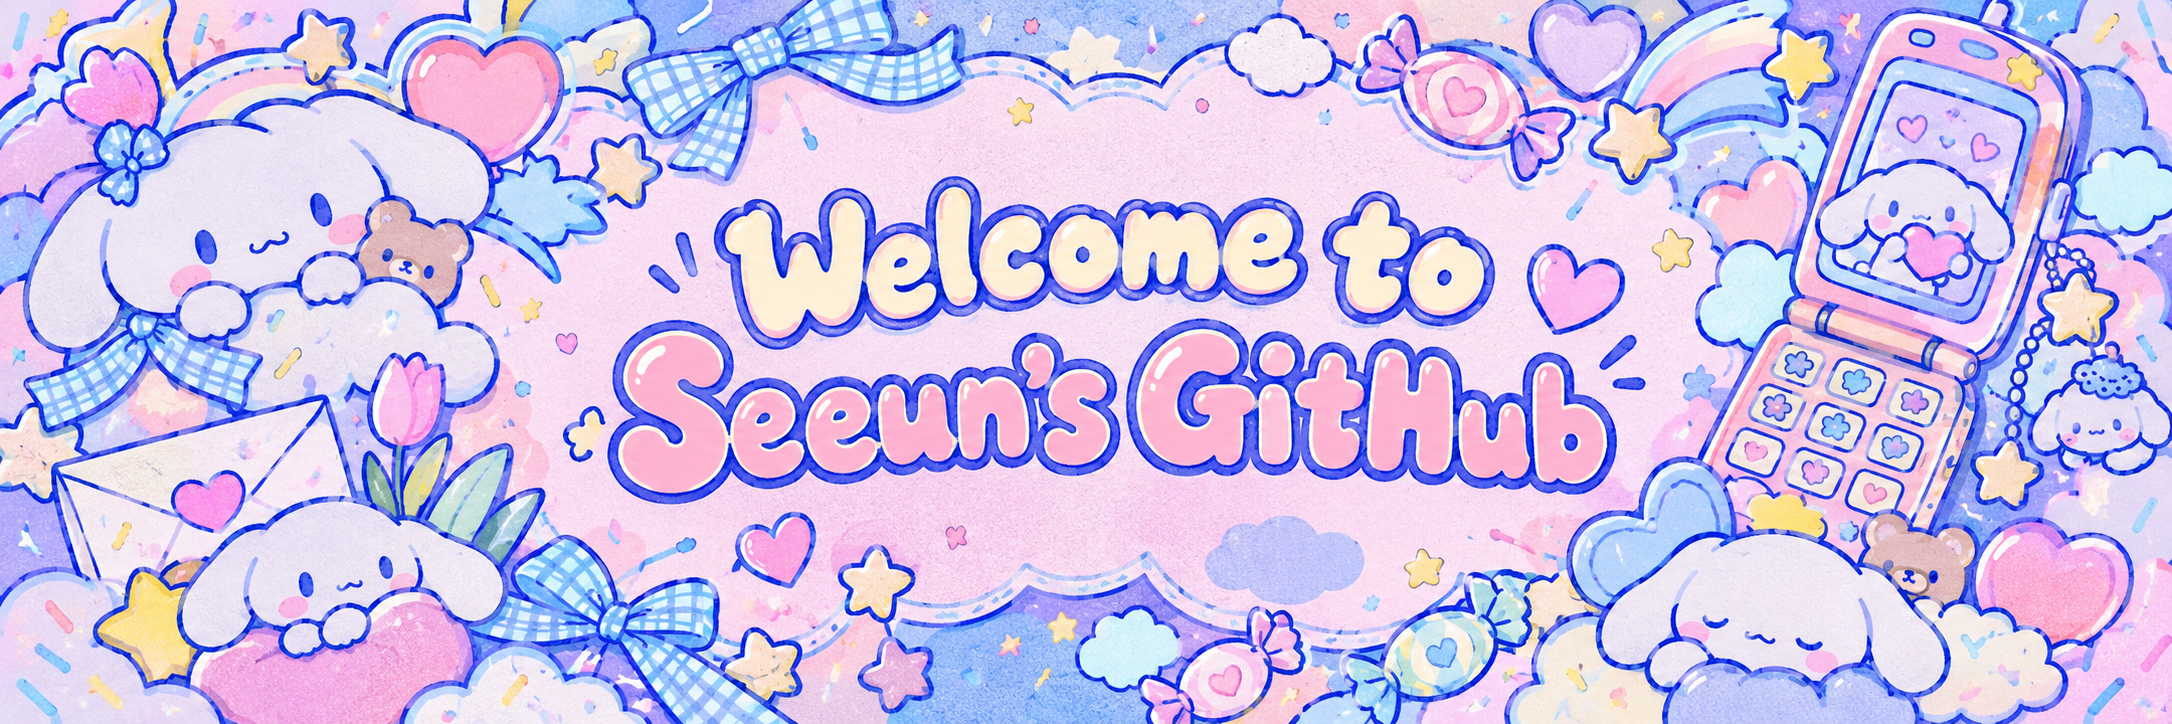
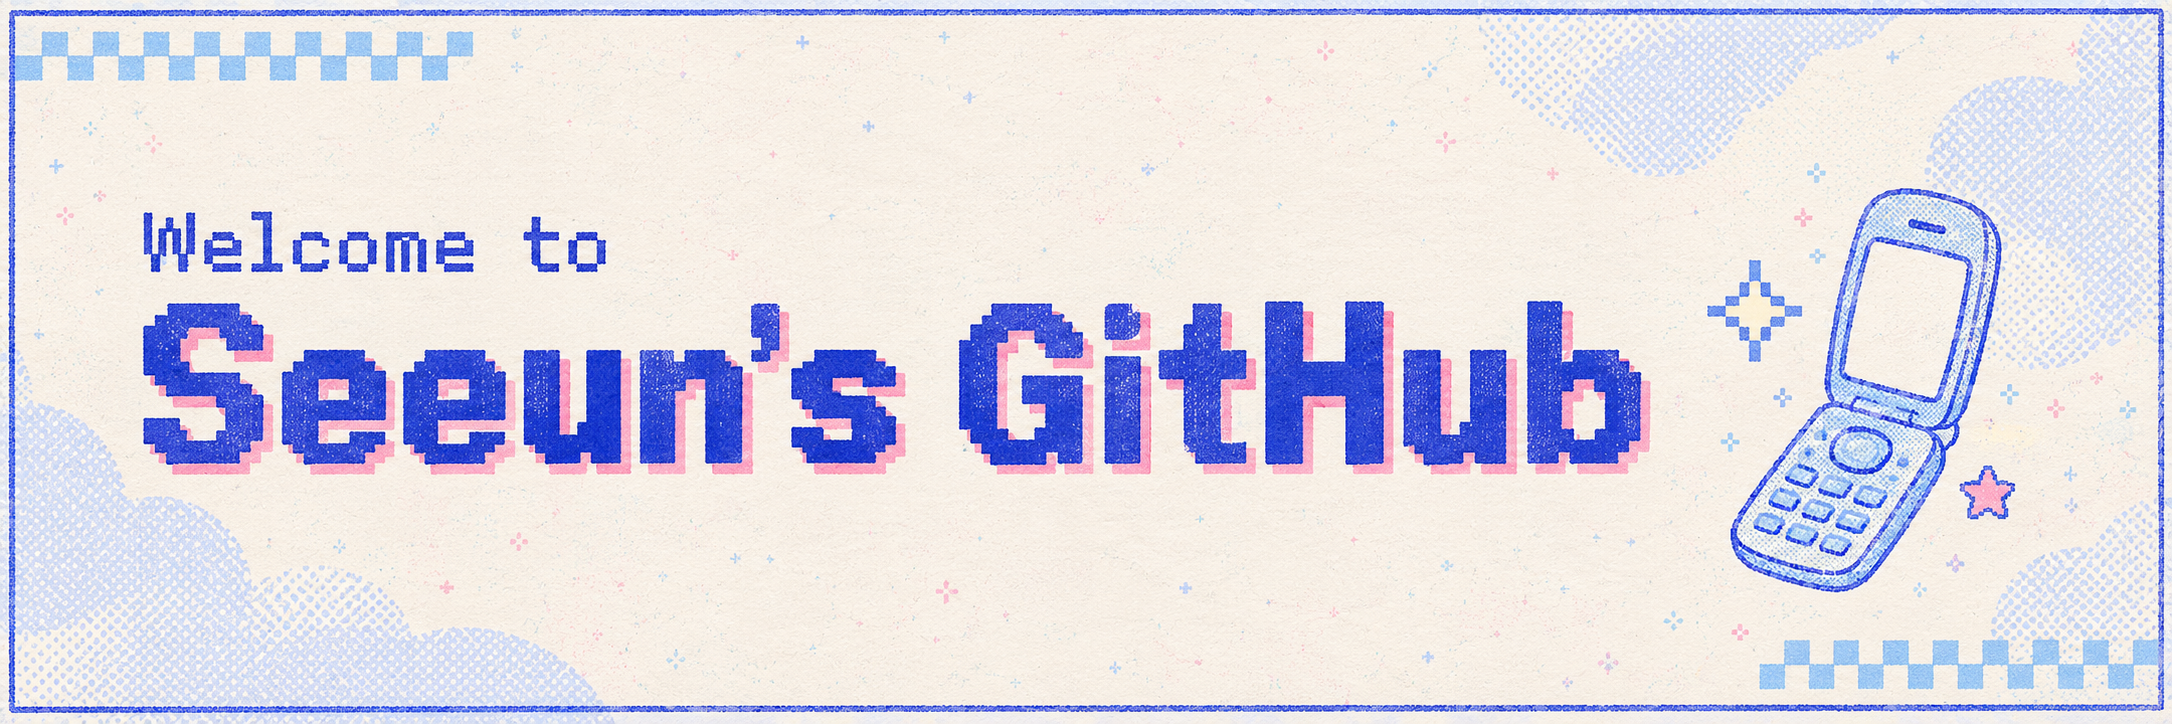
Refine profile cover with retro pixel typography

diff --git a/tools/header-prompt.md b/tools/header-prompt.md
@@ -1,8 +1,17 @@
 # Profile cover generation
 
 Mode: built-in `image_gen` tool. Style reference: user-provided `시나몬롤.jpg`.
-Output: `assets/header.png`. The reference is used for mood, not as an edit target.
+Output: `assets/header.png` (2172×724). The reference is used for color, print texture and retro mood, not as an edit target.
 
 ## Final prompt
 
-Use case: stylized-concept. Asset type: a finished wide GitHub profile welcome banner. Input image 1 is a MOOD/STYLE REFERENCE only, not an edit target. Create a fresh horizontal banner, approximately 3:1 aspect ratio, high resolution 1800x600 or 1536x512. Capture the reference's soft Japanese kawaii stationery / 2000s sticker-book mood: powder pink, lavender, pastel sky-blue, mint and butter-yellow; confident slightly wobbly cobalt-blue hand-drawn outlines; gentle matte paper grain and softly faded printed colors. Make a beautifully composed, cohesive handmade sticker collage around the perimeter, with fluffy cloud-like puppy mascots inspired by the reference, small hearts, stars, checked ribbons, wrapped candies, a charming pastel retro flip phone and tiny envelope doodles. Keep this as flat 2D hand-drawn illustration, playful and dreamy rather than polished vector or 3D. Use fewer, deliberately arranged stickers to frame a calm pale-pink/lavender central paper area. The main center MUST remain clear, visually balanced and welcoming; no objects overlap lettering. Add one typographic focal point in rounded friendly hand-lettering with rich blue outlines and cream/pink fill, large and readily readable at small profile widths. Text (verbatim and exact, one phrase ONLY): "Welcome to Seeun’s GitHub". It can be elegantly arranged over two lines: "Welcome to" then "Seeun’s GitHub". Spell the name exactly S-e-e-u-n and the platform G-i-t-H-u-b, keep the apostrophe. NO other words, logos, UI labels, usernames or captions anywhere, including on the phone screen, candy wrappers or character stickers. No screenshot, no mockup, no browser frame, no portfolio/homepage elements, no buttons, no navigation, no watermark. Deliver the full-bleed banner artwork itself. Reference mood is the priority; typography must be precise and charming.
+Use case: stylized-concept.
+Asset type: finished 3:1 wide GitHub profile title banner, full-bleed flat artwork, high resolution.
+Primary request: a carefully art-directed retro 1998–2003 personal-homepage title graphic with the faded printed stationery mood of the reference.
+Input image 1: color / printed texture / era MOOD REFERENCE ONLY. Do not reproduce its characters, drawings or sticker arrangement.
+Visual direction: powder periwinkle and pale cream paper, cobalt-blue ink, dusty rose accents, a touch of pale cyan. Flat limited-color printing with very subtle halftone and slight ink misregistration, as if an old stationery design was scanned. Sophisticated and playful, crisp and restrained.
+Composition: strong asymmetrical typography occupies the left two-thirds, with generous blank space. A short "Welcome to" line in small cobalt monospaced bitmap lettering above a large "Seeun’s GitHub" line. The large line uses a distinctive, highly readable chunky 1990s pixel / bitmap display typeface, cobalt face with a tiny flat pink offset shadow. Align the lines, provide comfortable margins, do not crowd the edges. Make the name the focal point.
+Graphic details: only a small pale-blue retro flip-phone outline in the right third, one cream four-point pixel sparkle and one tiny dusty-pink star nearby. The phone has an empty blank screen and simplified no-text buttons. One short pale-blue checkerboard strip at an outer edge and a thin cobalt keyline give a vintage print finish. Keep all details small and flat; most of the canvas is typography and breathing room.
+Text (verbatim, one phrase only): "Welcome to Seeun’s GitHub". Exact case and curly apostrophe. Name is S-e-e-u-n; platform is G-i-t-H-u-b. No other text anywhere.
+Avoid: mascots, animals, faces, stickers everywhere, ribbons, scalloped frames, bubble lettering, childish greeting-card style, gradients, glossy highlights, 3D, modern vector corporate look, watercolor painting, browser UI, webpage screenshot, navigation, cards, buttons, watermark.
+Output: the banner graphic itself with intentional clean spacing; not a physical paper mockup.
